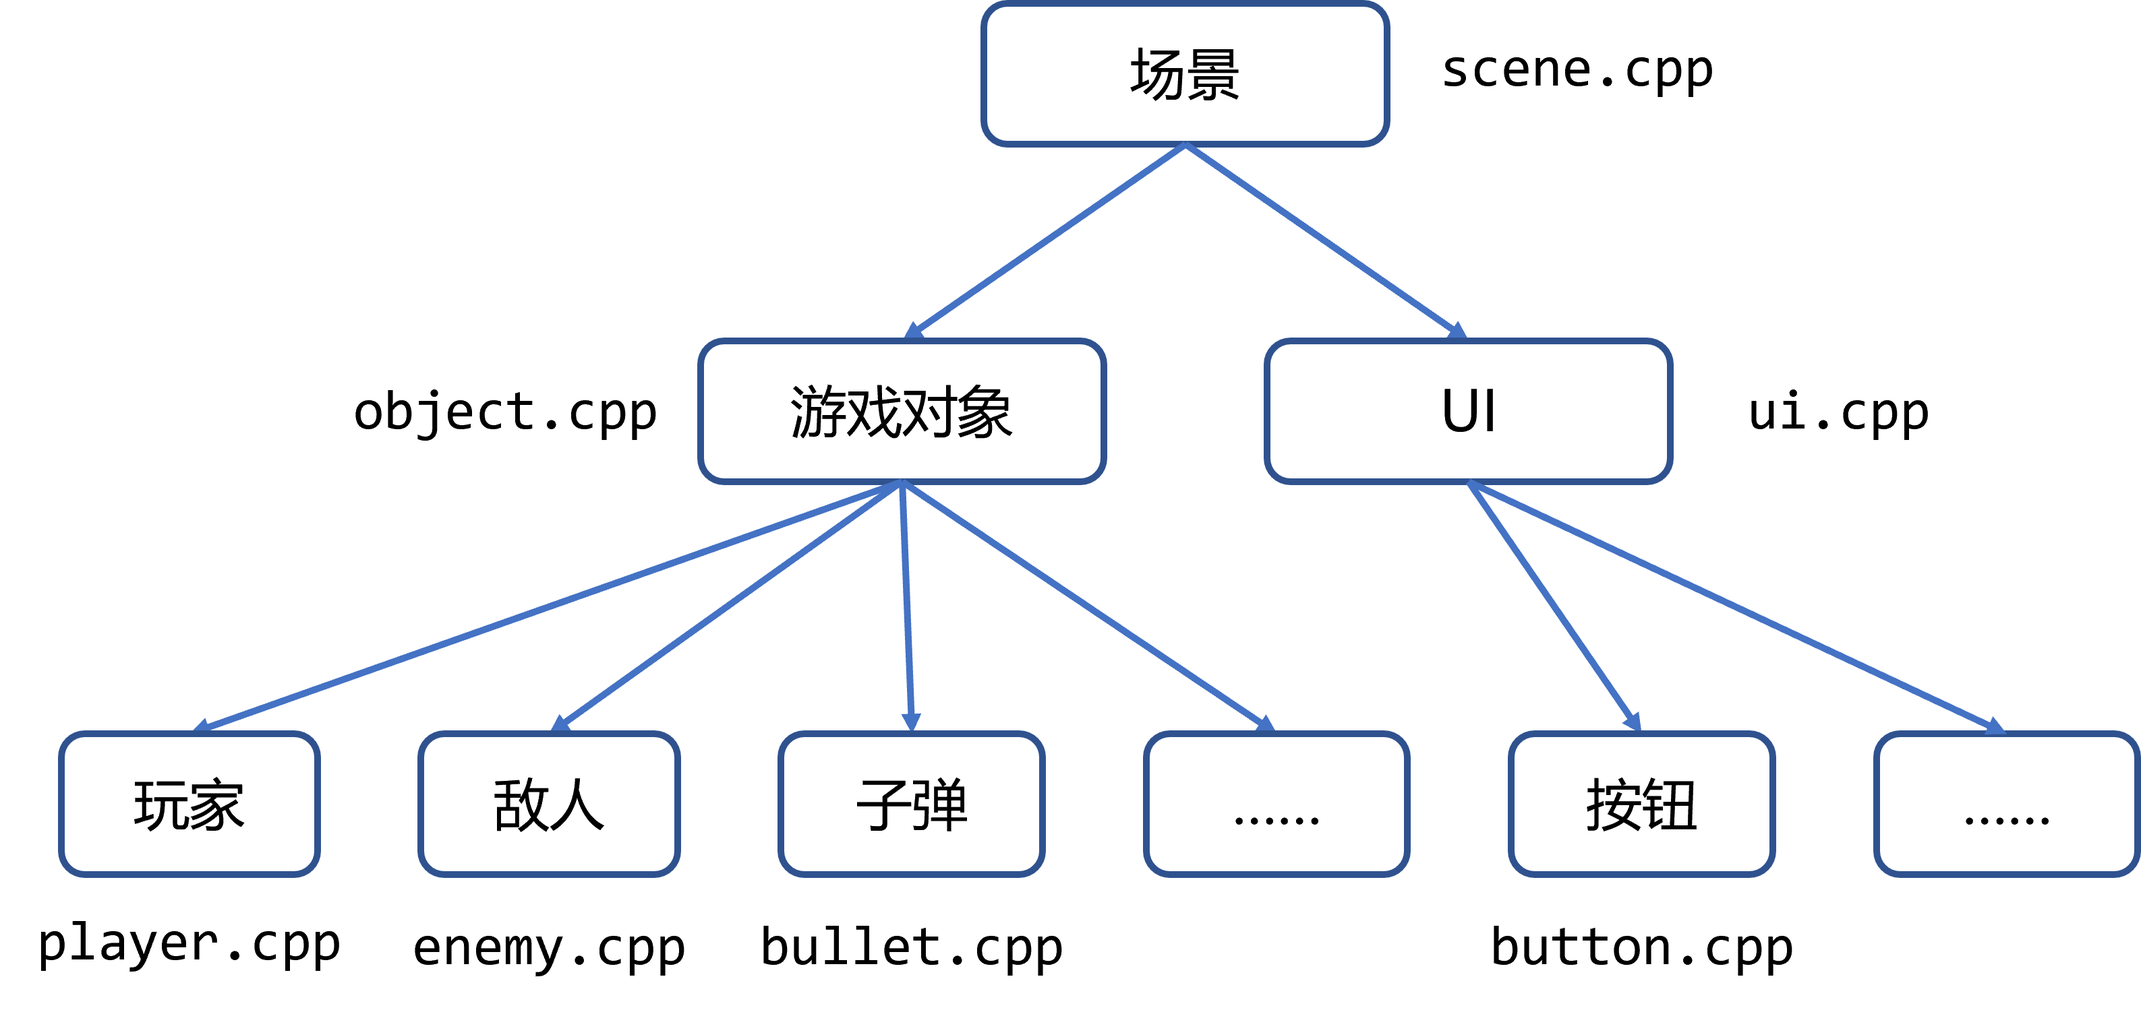
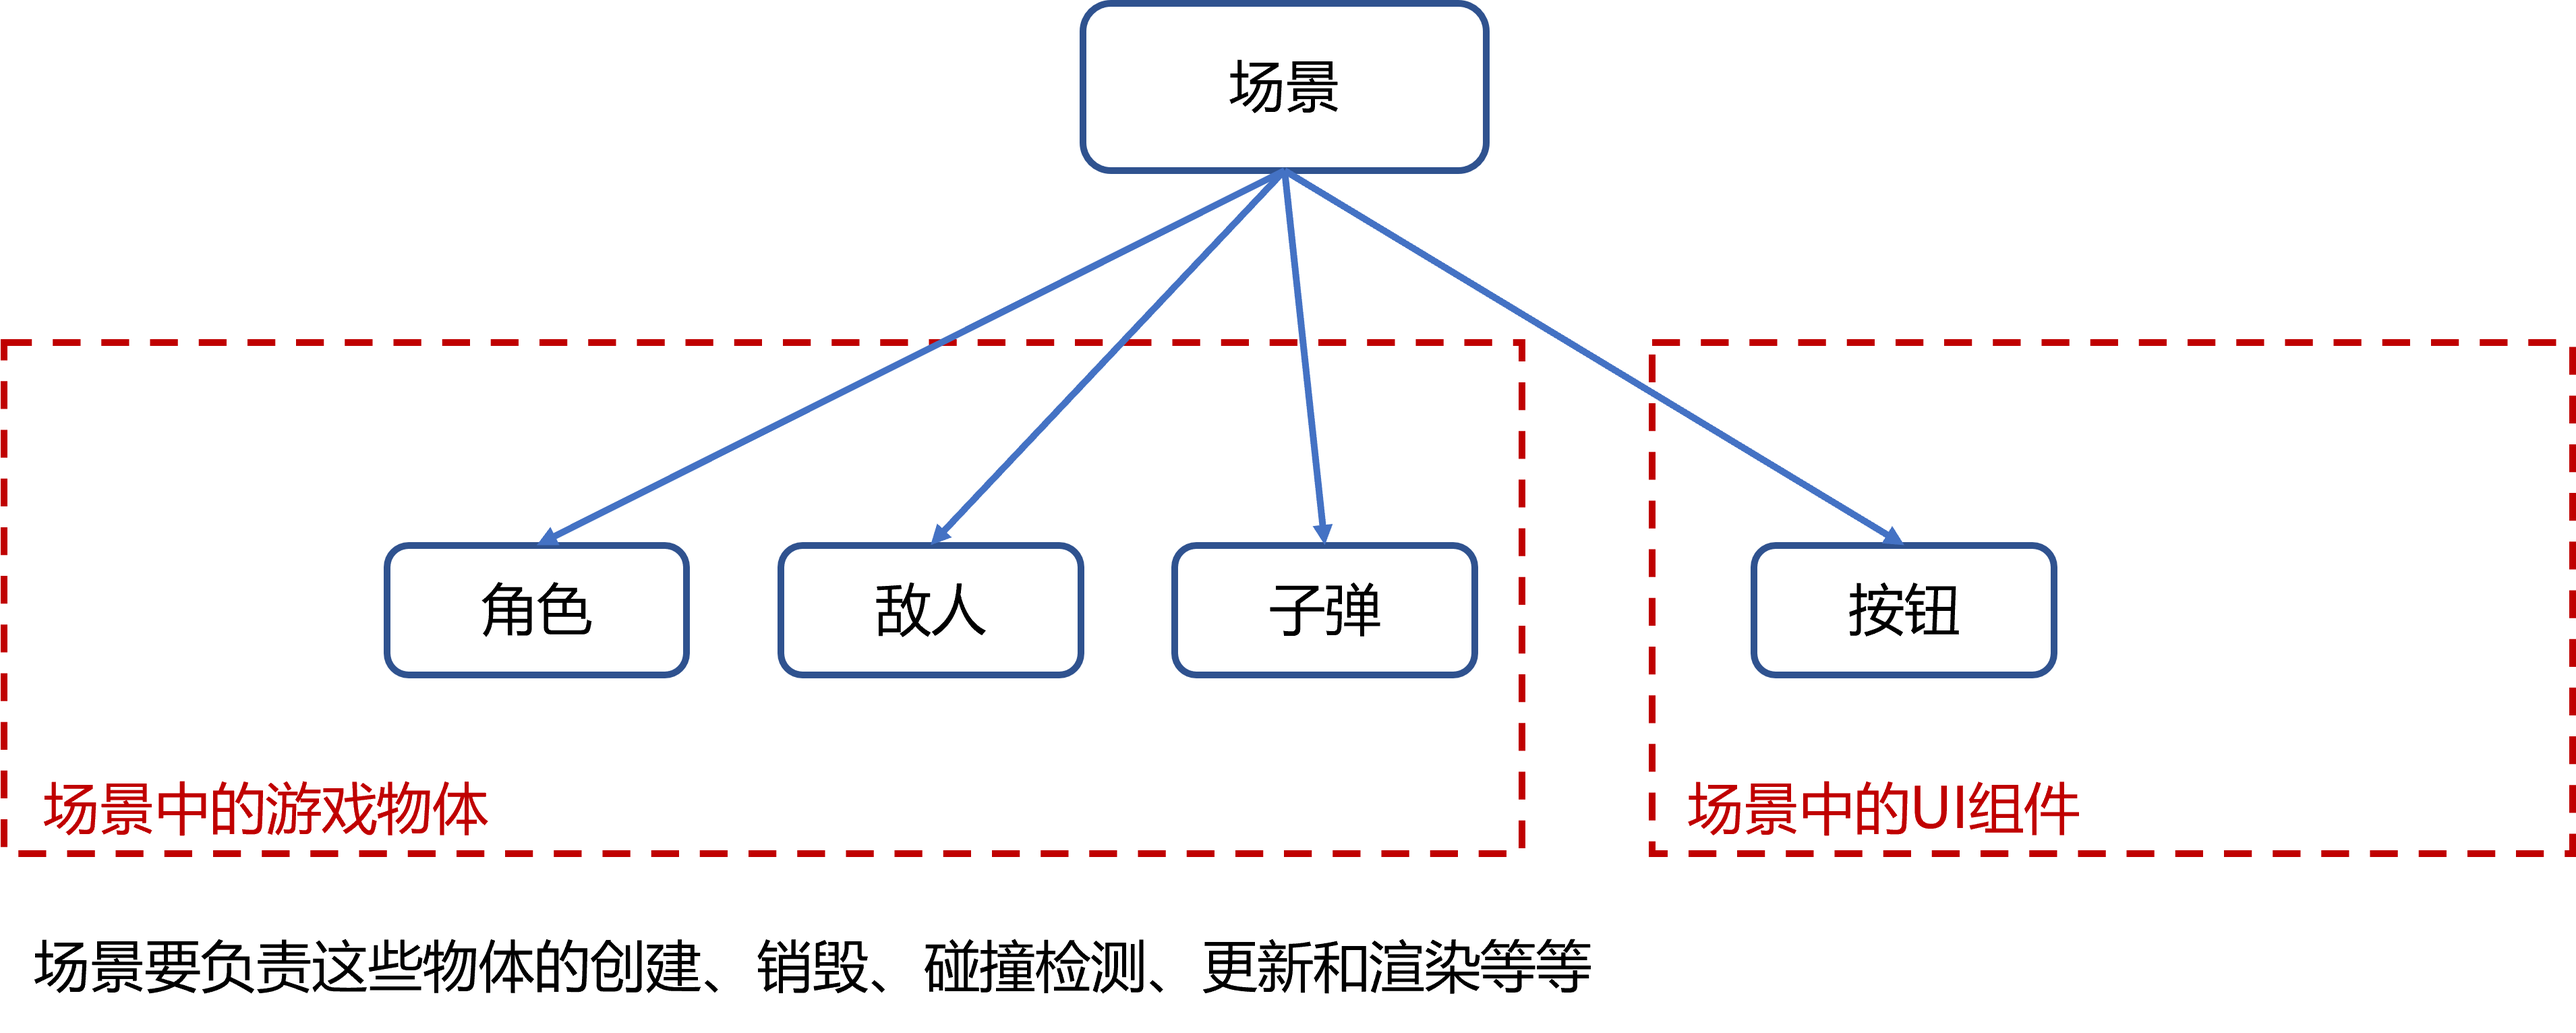
更新图片和README

diff --git a/docs/design.md b/docs/design.md
@@ -1,33 +1,2 @@
 # 游戏框架设计
 
-让我们从时序视角和资源管理的视角来看待这个框架。
-
-## 时序
-
-![](images/timeline.png)
-
-游戏的时序很简单，就是在游戏一开始进行一些初始化操作（如果需要的话），并且设置主定时器。然后主定时器以固定频率调用游戏循环函数，每一次游戏循环分别进行输入处理、碰撞检测、逻辑更新和画面渲染。
-
-- 输入处理是UI模块负责，输入模块会缓存键盘、鼠标等玩家输入，UI读取这些输入并判断是否需要进行响应
-- 碰撞检测是碰撞检测模块负责，碰撞检测会处理不同场景下不同类型的物体碰撞，并根据碰撞结果作出响应
-- 逻辑更新模块会更新所有游戏对象的逻辑，例如移动等
-- 画面渲染模块会绘制所有的内容，包括游戏对象和UI，并且先绘制游戏对象再绘制UI
-
-## 资源
-
-![](images/scene.png)
-
-游戏的资源管理很简单，以**场景**为最大的单位，例如欢迎界面是一个场景，游戏界面是另一个场景。
-
-每一个场景都包含游戏对象和UI，在场景切换的时候要妥善处理好旧游戏对象的销毁与新游戏对象的创建、旧UI的销毁与新UI的创建。
-
-## 两者之间的联系
-
-时序逻辑中的每一个函数调用都是按照资源的层级逐层向下调用的，例如
-
-- 在场景初始化的时候，场景管理会先调用游戏对象管理和UI的初始化函数，游戏对象管理的初始化函数会调用玩家、敌人和子弹的初始化函数，UI的初始化函数会调用按钮的初始化函数
-- 在场景切换的时候，场景管理会先调用游戏对象管理和UI的销毁函数，切换场景，然后再调用游戏管理和UI的创建函数；游戏对象管理的销毁函数会调用玩家、敌人和子弹的销毁函数，创建函数同理；UI同理
-- 在逻辑更新的时候，会调用游戏对象管理器的逻辑更新函数，游戏对象管理器的逻辑更新函数再调用玩家、敌人和子弹等游戏对象的逻辑更新函数
-- 在画面渲染的时候，会调用游戏对象管理器的画面渲染函数，游戏对象管理器的画面渲染函数再调用玩家、敌人和子弹等游戏对象的画面渲染函数，UI同理
-
-理解清晰这个点！

diff --git a/README.md b/README.md
@@ -2,9 +2,9 @@
 
 基于Win32API开发的简单游戏框架，面向《程序设计基础》课程的大作业项目。
 
-除了**框架代码**用了C++标准库外，其他代码基本都是C风格的，仍然建议大家学习一下`std::vector`的[用法](https://en.cppreference.com/w/cpp/container/vector.html)。
+整体代码基本都是C风格的，需要大家学习一下`std::vector`的[用法](https://en.cppreference.com/w/cpp/container/vector.html)和`std::set`的[用法](https://en.cppreference.com/w/cpp/container/set.html)。
 
-> 可以的话再学习一下`std::set`的[用法](https://en.cppreference.com/w/cpp/container/set.html)。
+> 比直接使用数组方便太多了！
 
 游戏框架设计请点击[这里](docs/design.md)。
 
@@ -12,10 +12,10 @@
 
 ## 界面展示：
 
-![](docs/images/start.png)
+<img src="docs/images/start.png" style="width:80%" />
 
-<div style="font-weight:bold;text-align:center">开始界面</div>
+<div style="font-weight:bold;text-align:center">开始场景</div>
 
-![](docs/images/game.png)
+<img src="docs/images/game.png" style="width:80%;" />
 
-<div style="font-weight:bold;text-align:center">游戏界面</div>
+<div style="font-weight:bold;text-align:center">游戏场景</div>
